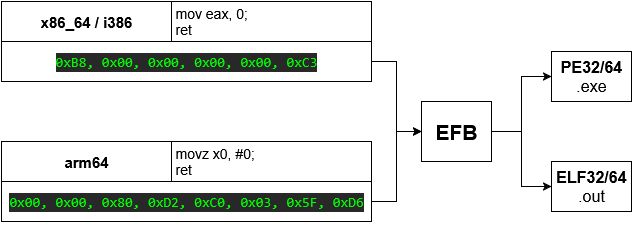
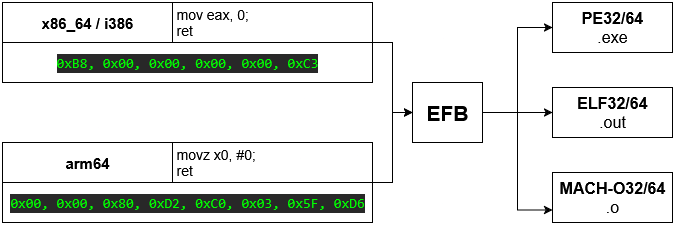
[CORE] prepare for Mach-O file format

Changed region(s): [[0.0, 0.0, 1.0, 0.9956], [0.8677, 0.1556, 0.9276, 0.1867]]

diff --git a/tests/efb_test.c b/tests/efb_test.c
@@ -94,13 +94,19 @@ void efb_test_build_executables(efb_arch arch, efb_format format, efb_machine_co
     }
 
     /* Append suffix based on format */
-    if (model.format == EFB_FORMAT_PE)
+    switch (model.format)
     {
+    case EFB_FORMAT_PE:
       EFB_APPEND_SUFFIX(filename, ".exe");
-    }
-    else
-    {
+      break;
+    case EFB_FORMAT_ELF:
       EFB_APPEND_SUFFIX(filename, ".out");
+      break;
+    case EFB_FORMAT_MACHO:
+      EFB_APPEND_SUFFIX(filename, ".o");
+      break;
+    default:
+      break;
     }
 
     assert(efb_platform_write(filename, model.out_binary, model.out_binary_size));

diff --git a/efb.h b/efb.h
@@ -330,6 +330,14 @@ typedef struct EFB_ELF64_SHDR
 
 } EFB_ELF64_SHDR;
 
+/* ------------------------------------ */
+/* - MACH-O Format Structs (32 & 64 bit)*/
+/* ------------------------------------ */
+
+
+/* ------------------------------------ */
+/* - EFB Model Structures               */
+/* ------------------------------------ */
 typedef enum efb_arch
 {
   EFB_ARCH_I386,
@@ -343,6 +351,7 @@ typedef enum efb_format
 {
   EFB_FORMAT_PE,
   EFB_FORMAT_ELF,
+  EFB_FORMAT_MACHO,
   EFB_FORMAT_COUNT
 
 } efb_format;
